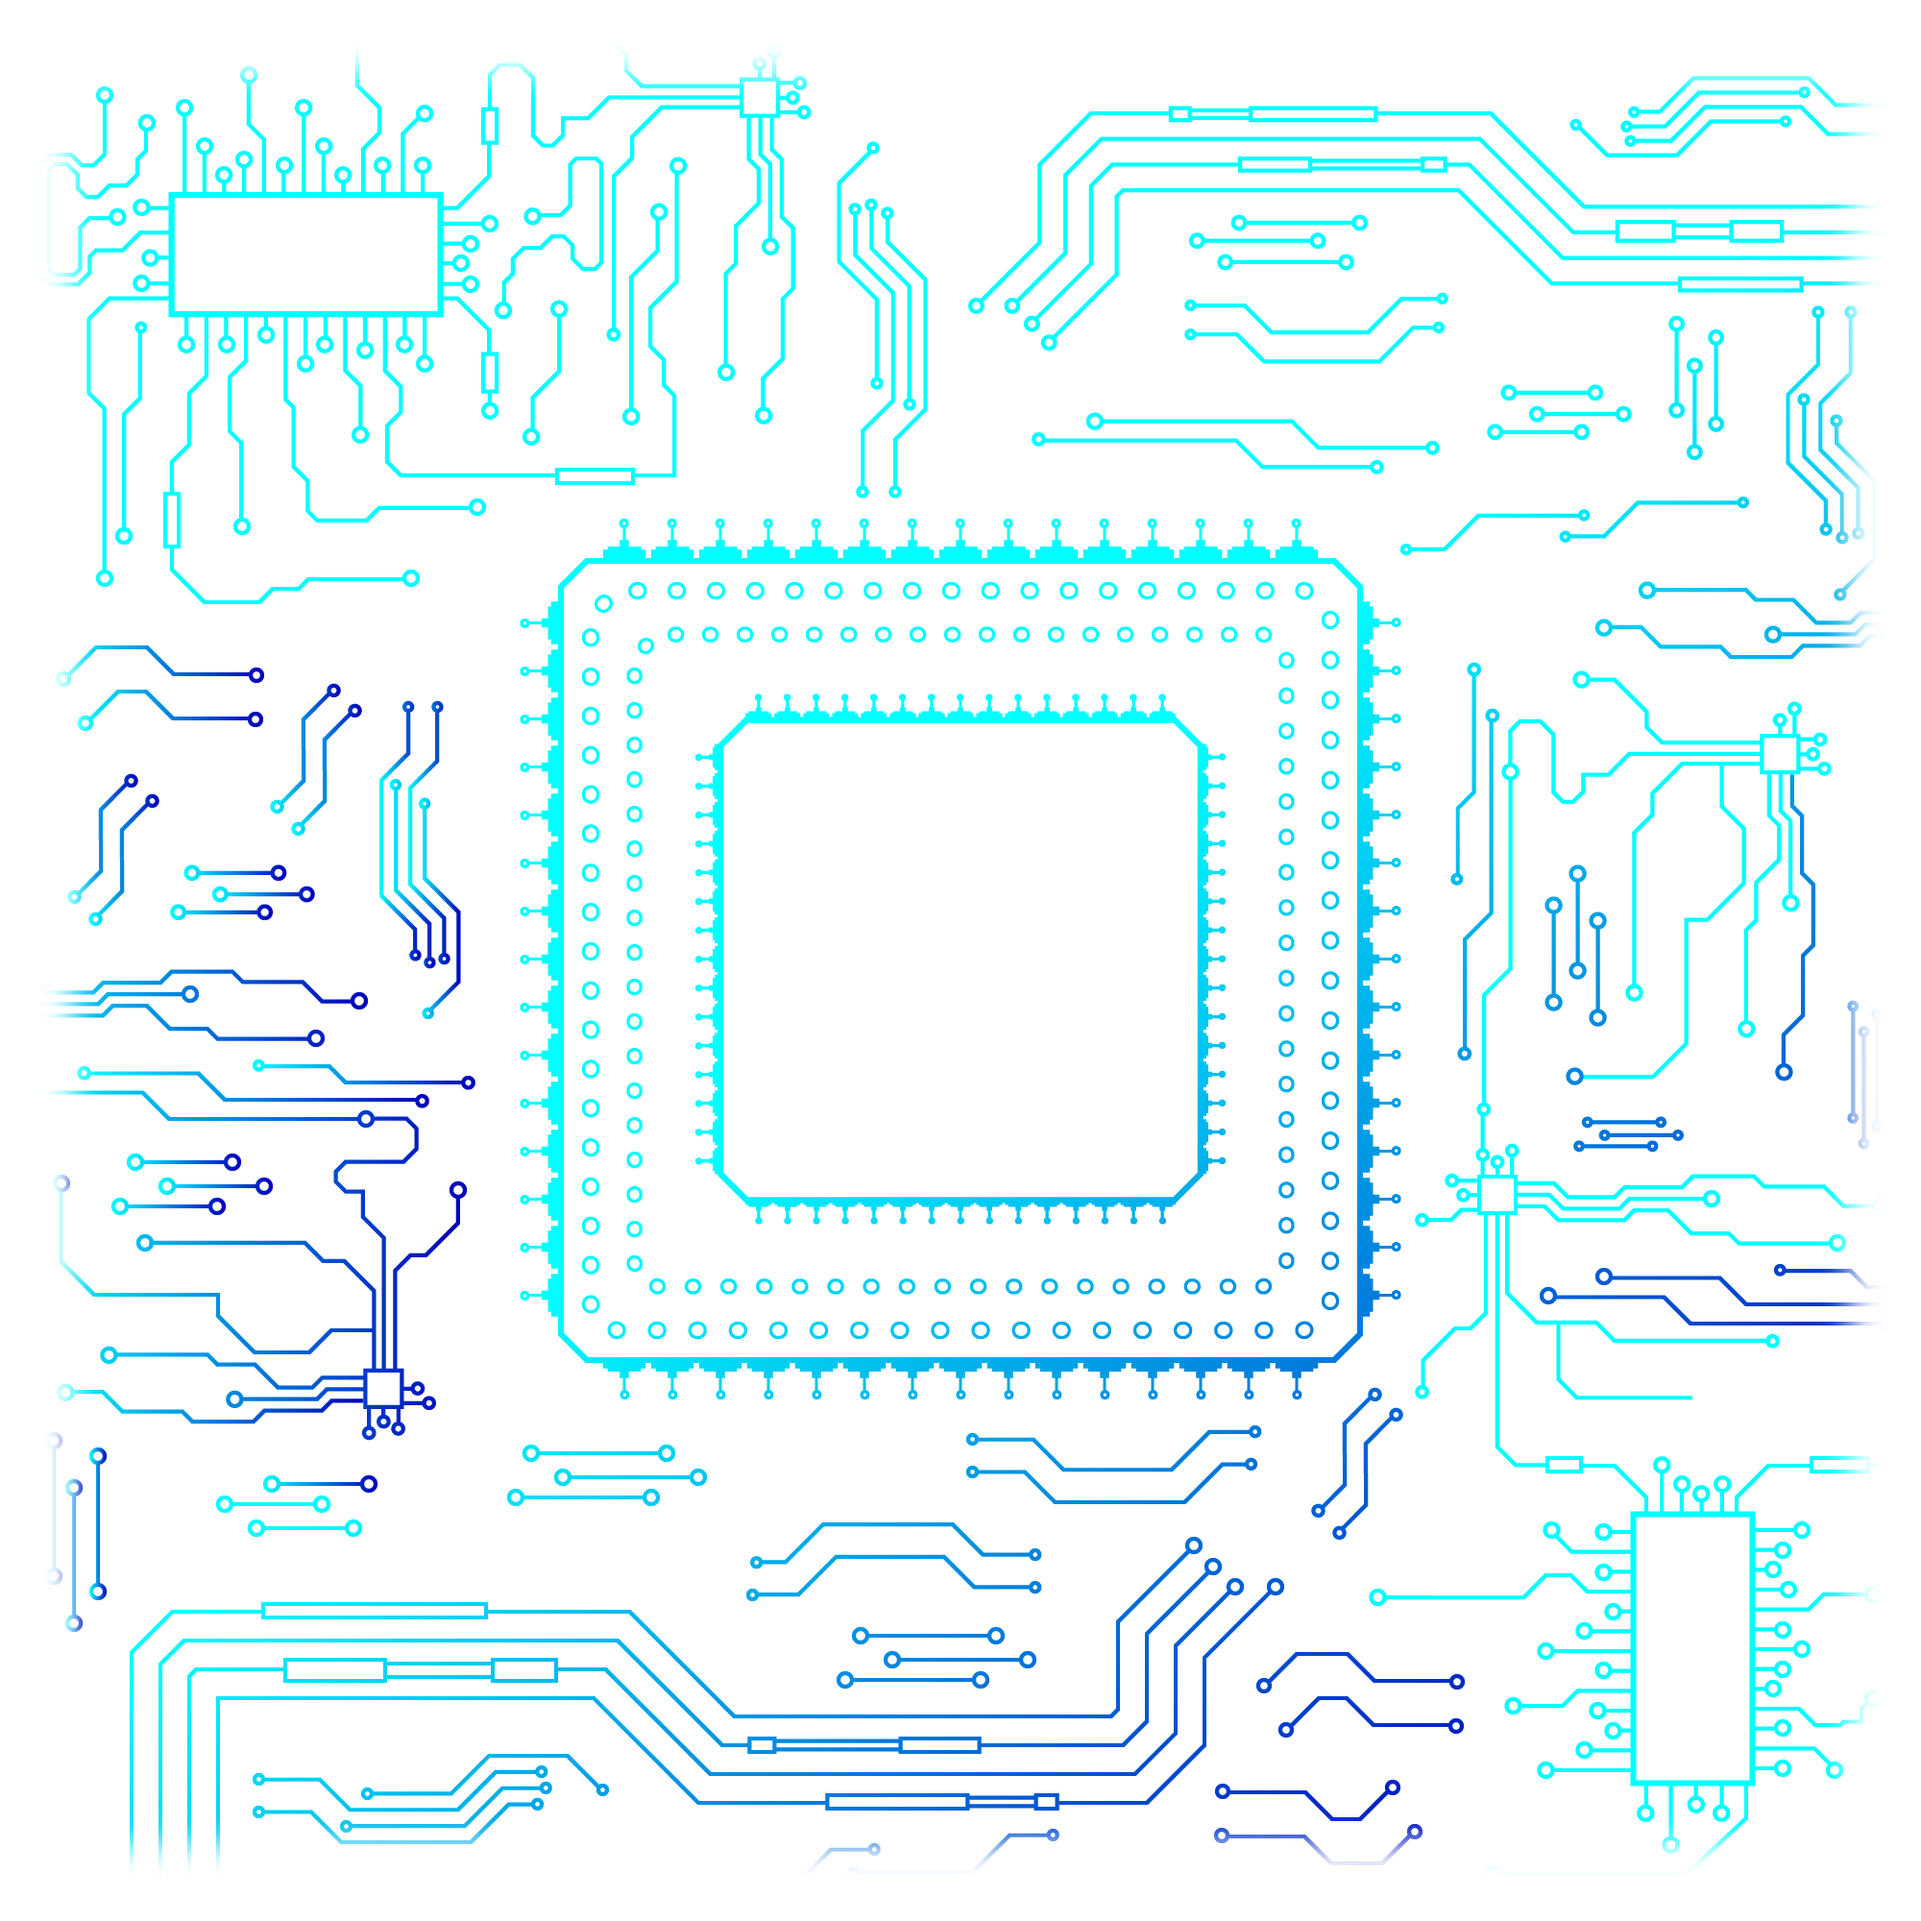
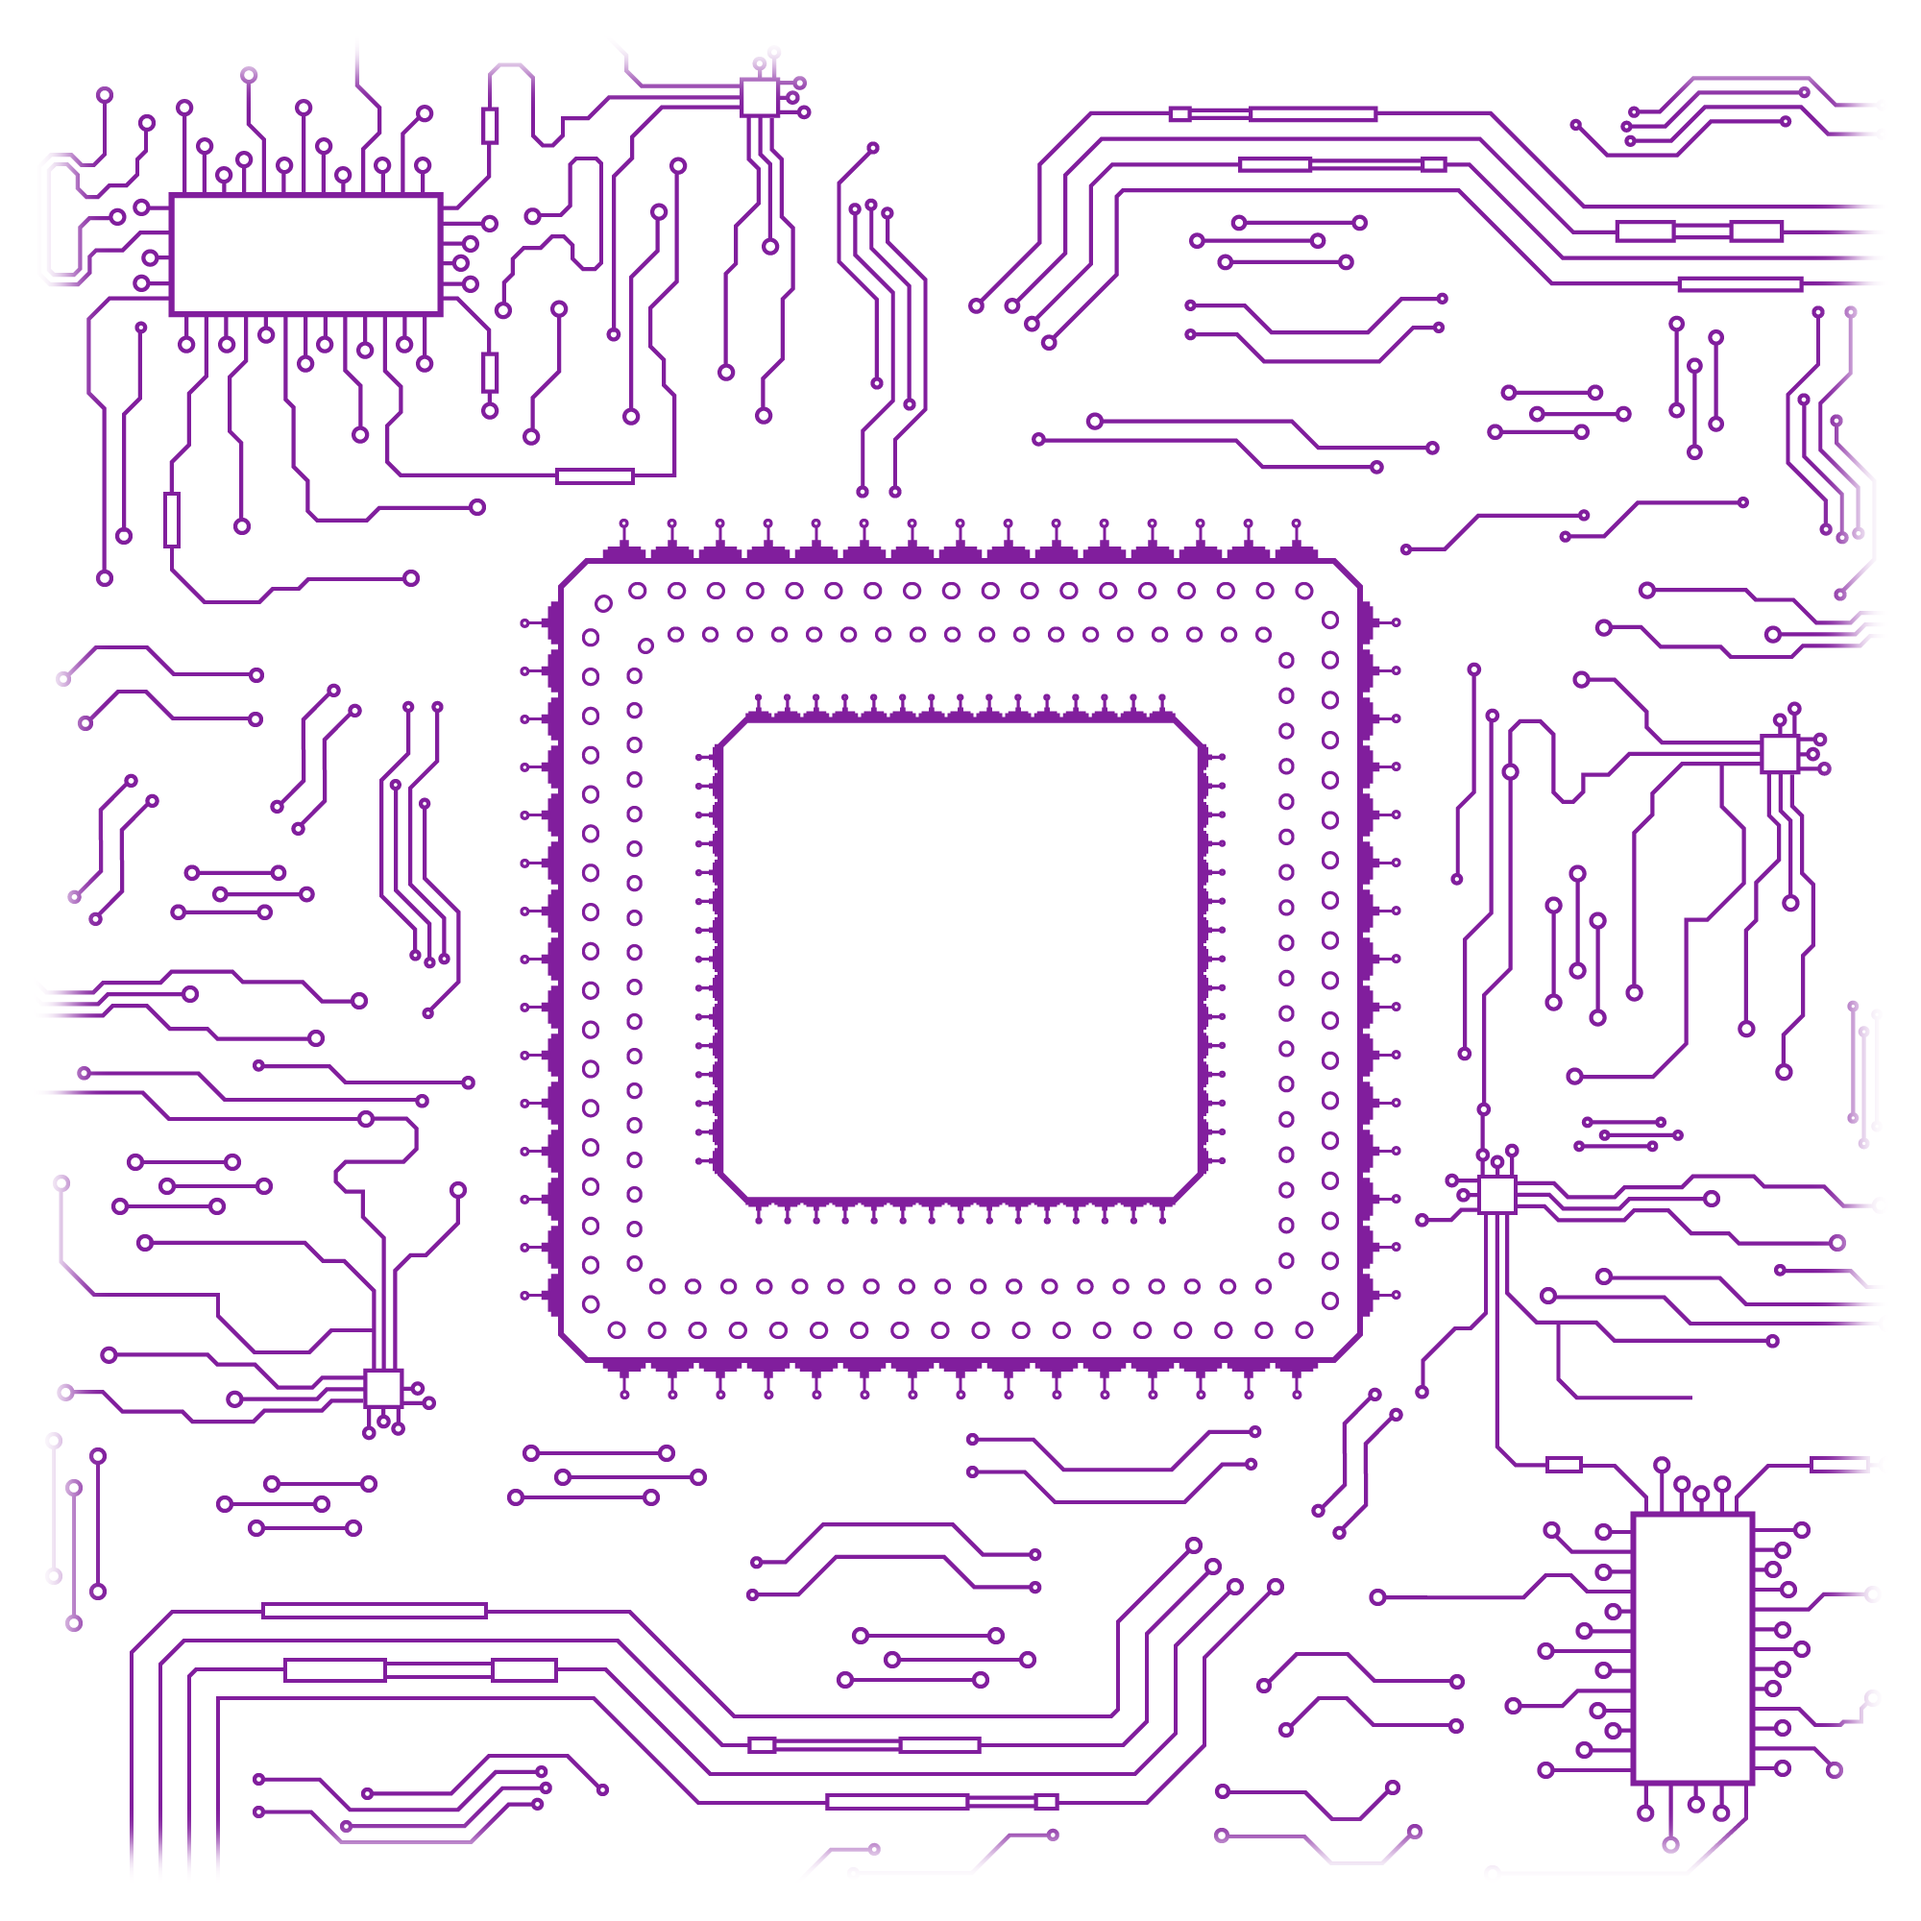
client images and main image colour changes

diff --git a/index.html b/index.html
@@ -206,16 +206,22 @@
                         
                         <h2 class="section-title">Focusing On What Matters Most</h2>
                         <div class="mobile-backdrop-border">
-                        <p class="section-subtitle">Lorem ipsum dolor sit amet, consectetur adipiscing elit, sed do
-                            eiusmod tempor incididunt ut labore et dolore magna aliqua. Ut enim ad minim veniam!</p>
-                        <p>Sed ut perspiciatis unde omnis iste natus error sit voluptatem accusantium doloremque laudantium,
-                        totam rem aperiam, eaque ipsa quae ab illo inventore veritatis et quasi architecto beatae vitae
-                        dicta sunt explicabo.
+                        <p class="section-subtitle">
+                            Welcome to Dev-A Development, your trusted partner in crafting exceptional 
+                            Shopify stores and seamless digital experiences. We specialize in creating bespoke e-commerce 
+                            solutions tailored to your unique brand identity, with focus on accessibility and performance.
                         </p>
+                        <p> 
+                            As dedicated experts in the Shopify ecosystem, we understand the intricacies of online retail, 
+                            ensuring your store not only looks stunning but also functions flawlessly. Our collaborative 
+                            approach extends to working seamlessly with agencies, serving as reliable subcontractors, and 
+                            adding value to every project we touch.
+                        </p>   
                         <p>
-                            Nemo enim ipsam voluptatem quia voluptas sit aspernatur aut odit aut fugit, sed quia
-                            consequuntur magni dolores eos qui ratione voluptatem sequi nesciunt.
-                            Neque porro quisquam est, qui dolorem ipsum quia dolor sit amet!
+                            At Dev-A Development, we go beyond just building websites; we empower businesses to thrive in 
+                            the digital landscape. Whether you're a brand seeking a stunning online presence or an agency 
+                            in need of a dependable partner, we are here to turn your visions into reality. Let's elevate 
+                            your online presence and transform your ideas into a successful e-commerce venture together.
                         </p>
                         </div>  
                     </div>
@@ -243,8 +249,9 @@
                     <div class="section-heading">
                         <h3>SERVICES</h3>
                         <h2 class="section-title">How We Can Help You</h2>
-                        <p class="section-subtitle">Lorem ipsum dolor sit amet, consectetur adipiscing elit, sed do
-                            eiusmod tempor incididunt ut labore et dolore magna aliqua. Ut enim ad minim veniam!</p>
+                        <p class="section-subtitle">
+                            Dev-A Development offers expertly crafted Shopify stores to elevate your brand, ensures inclusivity through ADA compliant designs, enhances user experience with lightning-fast speed optimization, and streamlines operations by seamlessly integrating essential third-party tools, allowing you to focus on business growth.
+                        </p>
                     </div>
 
                 </div>
@@ -260,8 +267,7 @@
                         <!--Icon Block Description-->
                         <div class="icon-block-description">
                             <h4>New Website Builds</h4>
-                            <p>Has ne tritani atomorum conclusionemque, in dolorum volumus cotidieque eum. At vis choro
-                                neglegentur iudico</p>
+                            <p>Elevate your brand with our expertly crafted Shopify stores, tailored to your unique vision and designed to captivate your audience from the moment they land on your site.</p>
                         </div>
                     </div>
                     <!--End of Icon Block-->
@@ -275,8 +281,9 @@
                         <!--Icon Block Description-->
                         <div class="icon-block-description">
                             <h4>Speed Optimization</h4>
-                            <p>Cu vero ipsum vim, doctus facilisi sea in. Eam ex falli honestatis repudiandae, sit
-                                detracto mediocrem disputationi</p>
+                            <p>Turbocharge your website’s performance and user experience with 
+                                our cutting-edge speed optimization techniques, ensuring lightning-fast 
+                                loading times for high SEO and Lighthouse scores.</p>
                         </div>
                     </div>
                     <!--End of Icon Block-->
@@ -290,8 +297,9 @@
                         <!--Icon Block Description-->
                         <div class="icon-block-description">
                             <h4>Accessibility & ADA Compliance</h4>
-                            <p>Id porro tritani recusabo usu, eum intellegam consequuntur et. Fugit debet ea sit, an pro
-                                nemore vivendum</p>
+                            <p>Ensure inclusivity and reach a wider audience with our services, 
+                                guaranteeing your website adheres to accessibility standards and ADA 
+                                compliance, making your online space welcoming to everyone.</p>
                         </div>
                     </div>
                     <!--End of Icon Block-->
@@ -305,8 +313,9 @@
                         <!--Icon Block Description-->
                         <div class="icon-block-description">
                             <h4>3rd Party Integrations</h4>
-                            <p>Id porro tritani recusabo usu, eum intellegam consequuntur et. Fugit debet ea sit, an pro
-                                nemore vivendum</p>
+                            <p>Seamlessly connect your Shopify store with essential third-party 
+                                tools and services, enhancing functionality and streamlining operations, 
+                                so you can focus on growing your business while we handle the technicalities.</p>
                         </div>
                     </div>
                     <!--End of Icon Block-->
@@ -369,9 +378,9 @@
                     <div class="section-heading">
                         <h3>Partners</h3>
                         <h2 class="section-title">Agency Partners</h2>
-                        <p class="section-subtitle">Lorem ipsum dolor sit amet, consectetur adipiscing elit, sed do
-                            eiusmod
-                            tempor incididunt ut labore et dolore magna aliqua. Ut enim ad minim veniam!</p>
+                        <p class="section-subtitle">
+                            
+                        </p>
                     </div>
 
                 </div>
@@ -379,15 +388,15 @@
                 <div class="col-2-3">
 
                     <a href="#" class="col-3">
-                        <img src="images/company-images/company-logo1.png" alt="Company"/>
+                        <img src="https://yt3.googleusercontent.com/ytc/APkrFKb-kSd4VV4YC4RKlNWgL34SSPoVRzT9NgG0fTogWA=s900-c-k-c0x00ffffff-no-rj" alt="Company"/>
                         <div class="client-overlay"><span>Ethercycle</span></div>
                     </a>
                     <a href="#" class="col-3">
-                        <img src="images/company-images/company-logo2.png" alt="Company"/>
+                        <img src="images/company-images/Dolgify.png" alt="Company"/>
                         <div class="client-overlay"><span>Dolgify</span></div>
                     </a>
                     <a href="#" class="col-3">
-                        <img src="images/company-images/company-logo3.png" alt="Company"/>
+                        <img src="https://zenprospect-production.s3.amazonaws.com/uploads/pictures/6403b2cec3a7a700013a8dcc/picture" alt="Company"/>
                         <div class="client-overlay"><span>UXForge</span></div>
                     </a>
 
@@ -396,6 +405,8 @@
             </div>
         </section>
         <!--End of Clients-->
+
+        
 
 
     </main>

diff --git a/css/namari-color.css b/css/namari-color.css
@@ -22,27 +22,27 @@ body {
 /* Default Link Color */
 
 a, .la-ball-triangle-path {
-    color:#bc72ee;
+    color:#811e9d;
 }
 
 a:hover, #header.nav-solid nav a:hover {
-    color:#bc72ee;
+    color:#811e9d;
 }
 
 /* Default Icon Color */
 
 .icon i {
-    color:#bc72ee;
+    color:#811e9d;
 }
 
 /* Border Color */
 
 #banner .section-heading:before, .testimonial.classic footer:before {
-    background: #bc72ee;
+    background: #811e9d;
 }
 
 .pricing-block-content:hover {
-    border-color:#bc72ee;
+    border-color:#811e9d;
 }
 
 
@@ -68,8 +68,8 @@ a:hover, #header.nav-solid nav a:hover {
 /* Navigation Active State */
 
 #header.nav-solid .active {
-    color: #bc72ee;
-    border-color: #bc72ee;
+    color: #811e9d;
+    border-color: #811e9d;
 }    
 
 
@@ -82,7 +82,7 @@ a:hover, #header.nav-solid nav a:hover {
 /* Primary Background and Text Colors */
 
 .primary-color, .featured .pricing {
-    background-color:#bc72ee;
+    background-color:#811e9d;
 }
 
 .primary-color, .primary-color .section-title, .primary-color .section-subtitle, .featured .pricing, .featured .pricing p {
@@ -90,7 +90,7 @@ a:hover, #header.nav-solid nav a:hover {
 }
 
 .section-heading h2:after {
-    background:#bc72ee;
+    background:#811e9d;
     content:"";
     display:block;
     width:30px;
@@ -286,8 +286,8 @@ h6 {
 /* Button Hover Color */
 
 .button:hover,  input[type="submit"]:hover {
-    border-color:#bc72ee;
-    color:#bc72ee;
+    border-color:#811e9d;
+    color:#811e9d;
 }
 
 
@@ -313,8 +313,8 @@ h6 {
 /* Button Hover Color */
 
 #banner .button:hover {
-    color:#bc72ee;
-    border-color:#bc72ee;
+    color:#811e9d;
+    border-color:#811e9d;
 }
 
 
